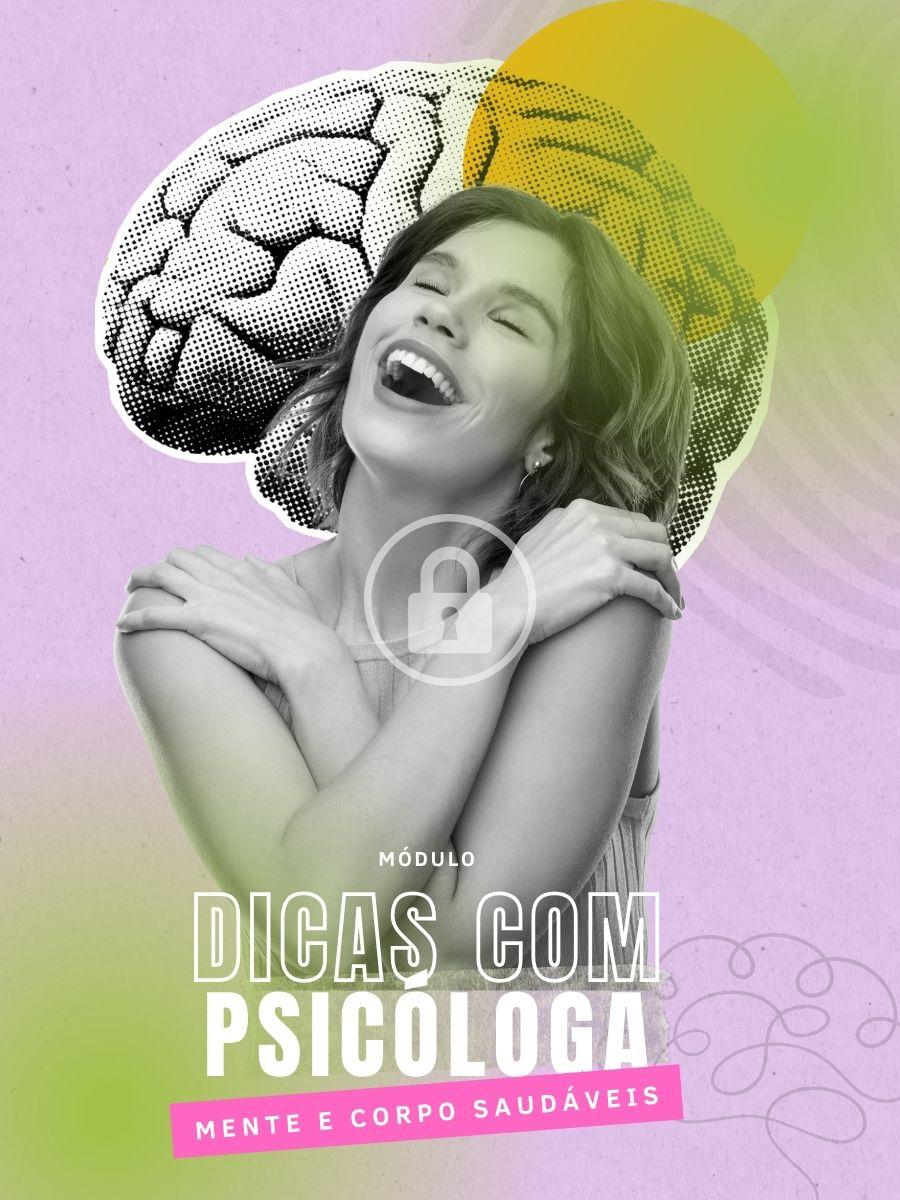
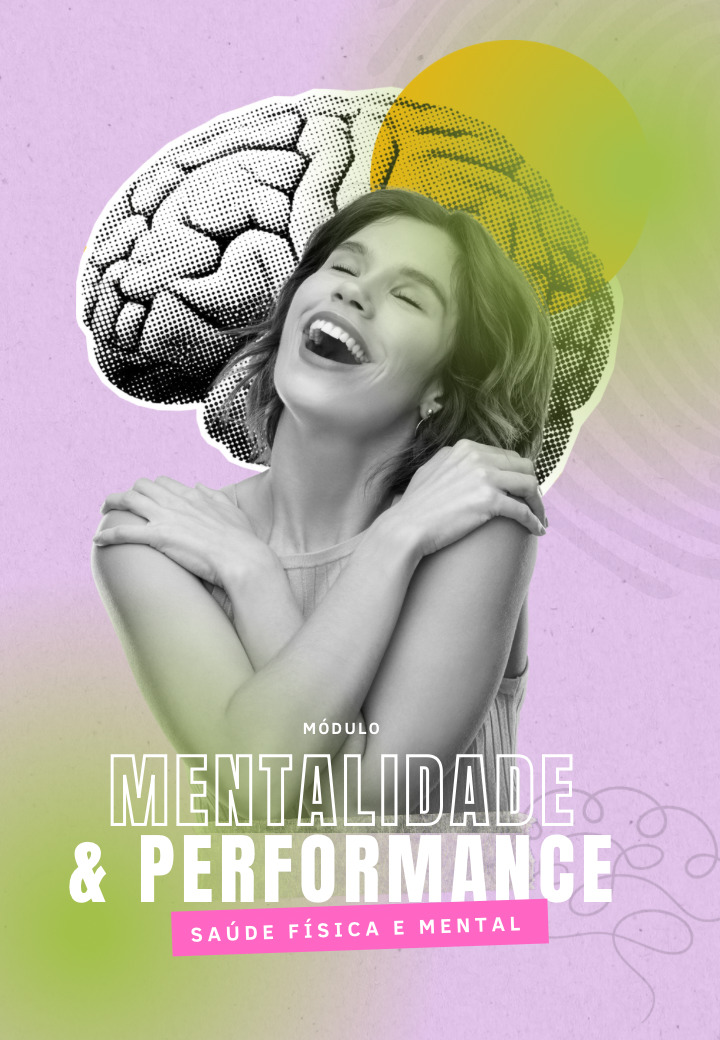
comentario corrigido

diff --git a/src/App.jsx b/src/App.jsx
@@ -5,11 +5,11 @@ import asset14 from './assets/544-2717.webp'
 import asset15 from './assets/544-2719.webp'
 import asset16 from './assets/544-2721.webp'
 import asset47 from './assets/692-4129.webp'
-import asset66 from './assets/647-3704.webp'
-import asset67 from './assets/647-3709.webp'
-import asset68 from './assets/647-3714.webp'
-import asset69 from './assets/647-3719.webp'
-import asset70 from './assets/647-3724.webp'
+import comentario1 from './assets/comentario1.webp'
+import comentario2 from './assets/comentario2.webp'
+import comentario3 from './assets/comentario3.webp'
+import comentario4 from './assets/comentario4.webp'
+import comentario5 from './assets/comentario5.webp'
 import asset72 from './assets/647-3837.webp'
 import asset73 from './assets/647-3838.webp'
 import asset74 from './assets/647-3839.webp'
@@ -52,7 +52,7 @@ import modulo8  from './assets/modulo8.jpg'
 import modulo9      from './assets/modulo9.jpg'
 import modulo10 from './assets/modulo10.jpg'
 import modulo11      from './assets/modulo11.jpg'
-import modulo12      from './assets/modulo12.png'
+import modulo12      from './assets/modulo12.jpg'
 
 import React, { useState, useEffect, useRef } from 'react'
 
@@ -156,7 +156,6 @@ const faqs = [
 
 
 function App() {
-  const [currentTestimonial, setCurrentTestimonial] = useState(0)
   const [email, setEmail] = useState('')
   const [isMenuOpen, setIsMenuOpen] = useState(false)
   const [isContactDropdownOpen, setIsContactDropdownOpen] = useState(false)
@@ -174,12 +173,12 @@ function App() {
   }, [])
 
   // Auto-rotate testimonials
-  useEffect(() => {
+  /*useEffect(() => {
     const interval = setInterval(() => {
       setCurrentTestimonial((prev) => (prev + 1) % 3) // 3 depoimentos
     }, 4000)
     return () => clearInterval(interval)
-  }, [])
+  }, [])*/
 
   // Função para scroll suave até seção
   const scrollToSection = (sectionId) => {
@@ -212,8 +211,8 @@ function App() {
     { photo: especialista1, name: "Carina Gomes", role: "Corredora" },
     { photo: especialista2, name: "Gabriel Ferreira", role: "Fisioterapeuta" },
     { photo: especialista3, name: "Denise Cunha",           role: "Nutricionista" },
-    { photo: especialista4, name: "Jéssica Silva", role: "Psicóloga" },
-    { photo: especialista5, name: "Carlos Ferreira", role: "Educador Físico" }
+    { photo: especialista4, name: "Carlos Ferreira", role: "Educador Físico" },
+    //{ photo: especialista5, name: "Jéssica Silva", role: "Psicóloga" },
   ]
 },
     partners: {
@@ -234,11 +233,11 @@ function App() {
 
     },
     testimonials: [
-      { image: asset66, name: "ALEX MARTINS", role: "PERSONAL TRAINER", text: "Transformação incrível! O programa mudou completamente minha vida e minha forma física." },
-      { image: asset67, name: "KETLEN LARA", role: "", text: "Desde que comecei, não foi só o meu corpo que mudou, mas principalmente minha mentalidade. Tem sido incrível! 🤩💪" },
-      { image: asset68, name: "ANA CLARA", role: "", text: "a plataforma é simplesmente maraaavilhosa, tem tudo!!" },
-      { image: asset69, name: "JOÃO PEDRO", role: "EDUCADOR FÍSICO", text: "Superou todas as minhas expectativas. Equipe altamente qualificada." },
-      { image: asset70, name: "ANA COSTA", role: "PERSONAL TRAINER", text: "Programa completo e eficiente. Mudou minha perspectiva sobre fitness." }
+      { image: comentario1, name: "ANA CLARA", role: "PERSONAL TRAINER", text: "Transformação incrível! O programa mudou completamente minha vida e minha forma física." },
+      { image: comentario2, name: "KETLEN LARA", role: "", text: "Desde que comecei, não foi só o meu corpo que mudou, mas principalmente minha mentalidade. Tem sido incrível! 🤩💪" },
+      { image: comentario3, name: "LETICIA GOMES", role: "", text: "a plataforma é simplesmente maraaavilhosa, tem tudo!!" },
+      { image: comentario4, name: "MARIA", role: "EDUCADOR FÍSICO", text: "Superou todas as minhas expectativas. Equipe altamente qualificada." },
+      { image: comentario5, name: "EMANUELA ALMEIDA", role: "PERSONAL TRAINER", text: "Programa completo e eficiente. Mudou minha perspectiva sobre fitness." }
     ],
     plans: {
       title: <div className="text-center mt-0 mb-10">
@@ -344,13 +343,17 @@ function App() {
     }
   }
 
-  // Auto-rotate testimonials
-  useEffect(() => {
-    const interval = setInterval(() => {
-      setCurrentTestimonial((prev) => (prev + 1) % siteData.testimonials.length)
-    }, 4000)
-    return () => clearInterval(interval)
-  }, [siteData.testimonials.length])
+  const testimonials = siteData.testimonials || [];
+const [currentTestimonial, setCurrentTestimonial] = useState(0);
+
+  // Auto-rotate testimonials (roda todos que existirem)
+useEffect(() => {
+  if (testimonials.length === 0) return; // segurança
+  const id = setInterval(() => {
+    setCurrentTestimonial(prev => (prev + 1) % testimonials.length);
+  }, 4000);
+  return () => clearInterval(id);
+}, [testimonials.length]);
 
   // Handle email subscription
   const handleEmailSubmit = (e) => {
@@ -731,9 +734,10 @@ function App() {
     key={index}
     className={
       "text-center group " +
-      (index === siteData.team.members.length - 1
-        ? "col-span-2 justify-self-center md:col-span-1" // centraliza a última no mobile
-        : "")
+      (index === siteData.team.members.length - 1 && siteData.team.members.length % 2 === 1
+  ? "col-span-2 justify-self-center md:col-span-1" // centraliza a última só se sobrar 1
+  : "")
+
     }
   >
           <img
